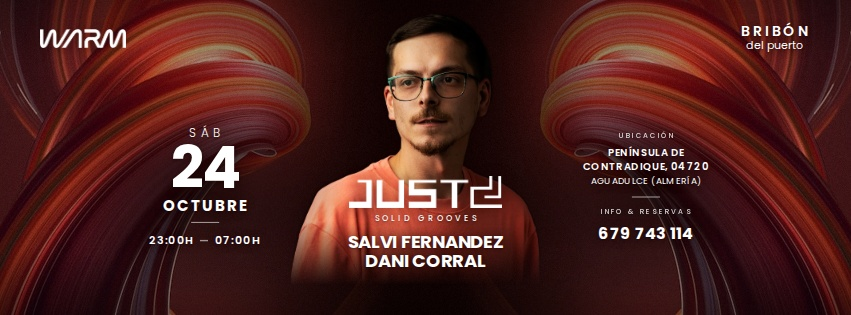
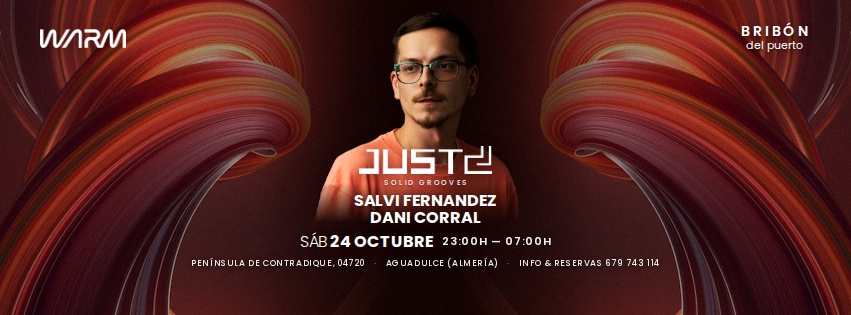
WARM 24.10 — coperte înapoi pe așezarea centrată, cu toată informația (1920×1005, 851×315)
Claude-Session: https://claude.ai/code/session_01PsYJ7xTqRMzxVLnVuQx1Lt

diff --git a/warm_24oct/cover_851_center.html b/warm_24oct/cover_851_center.html
@@ -1,0 +1,35 @@
+<!doctype html><html><head><meta charset="utf-8">
+<link href="fonts_poppins.css" rel="stylesheet">
+<style>
+*{margin:0;padding:0;box-sizing:border-box}
+body{width:851px;height:315px;overflow:hidden;background:#200606 url(bg_swirl_851.jpg) 0 0/851px 315px no-repeat;font-family:'Poppins',sans-serif;color:#fff;text-transform:uppercase}
+.photo{position:absolute;left:209px;top:-55px;width:440px;height:660px;background:url(photos/just2_cutout.png) 0 0/100% 100% no-repeat;
+ -webkit-mask-image:linear-gradient(180deg,#000 0%,#000 36%,rgba(0,0,0,0) 42%);filter:drop-shadow(0 0 18px rgba(20,0,0,.55))}
+.sh{text-shadow:0 1px 8px rgba(40,5,0,.65),0 1px 2px rgba(40,5,0,.4)}
+img.sh{filter:drop-shadow(0 1px 7px rgba(40,5,0,.5))}
+.warm{position:absolute;top:29px;left:40px;width:86px}
+.tr{position:absolute;top:24px;right:40px;text-align:center;line-height:1}
+.tr b{display:block;font-weight:600;font-size:14px;letter-spacing:.2em;padding-left:.2em}
+.tr i{display:block;font-style:normal;font-weight:400;font-size:11px;text-transform:none;margin-top:2px}
+.tr small{display:block;font-weight:500;font-size:8px;letter-spacing:.14em;margin-top:6px;opacity:.9}
+.c{position:absolute;left:0;right:0;top:146px;display:flex;flex-direction:column;align-items:center;text-align:center}
+.j2{height:28px}
+.label{font-weight:500;font-size:7px;letter-spacing:.38em;padding-left:.38em;margin:4px 0 5px}
+.n{font-weight:700;font-size:16px;line-height:1.05;letter-spacing:-.01em}
+.date{font-weight:700;font-size:16px;line-height:1;margin-top:7px;letter-spacing:-.005em}
+.date span{font-weight:300}
+.date em{font-style:normal;font-weight:600;font-size:11px;letter-spacing:.06em;opacity:.95;margin-left:9px;vertical-align:2px}
+.l2{font-weight:500;font-size:8.5px;letter-spacing:.07em;margin-top:7px;opacity:.92}
+.l2 em{font-style:normal;opacity:.55;margin:0 6px}
+</style></head><body>
+<div class="photo"></div>
+<img class="warm sh" src="logos/warm_white.png">
+<div class="tr sh"><b>BRIBÓN</b><i>del puerto</i></div>
+<div class="c sh">
+ <img class="j2 sh" src="logos/just2_white.png">
+ <div class="label">Solid Grooves</div>
+ <div class="n">Salvi Fernandez</div><div class="n">Dani Corral</div>
+ <div class="date"><span>SÁB</span> 24 OCTUBRE<em>23:00H — 07:00H</em></div>
+ <div class="l2">Península de Contradique, 04720 <em>·</em> Aguadulce (Almería) <em>·</em> Info &amp; Reservas 679 743 114</div>
+</div>
+</body></html>

diff --git a/warm_24oct/cover_center.html b/warm_24oct/cover_center.html
@@ -1,0 +1,35 @@
+<!doctype html><html><head><meta charset="utf-8">
+<link href="fonts_poppins.css" rel="stylesheet">
+<style>
+*{margin:0;padding:0;box-sizing:border-box}
+body{width:1920px;height:1005px;overflow:hidden;background:#200606 url(bg_swirl_mirror_1920.jpg) 0 0/1920px 1005px no-repeat;font-family:'Poppins',sans-serif;color:#fff;text-transform:uppercase}
+.photo{position:absolute;left:436px;top:-62px;width:1066px;height:1600px;background:url(photos/just2_cutout.png) 0 0/100% 100% no-repeat;
+ -webkit-mask-image:linear-gradient(180deg,#000 0%,#000 40%,rgba(0,0,0,0) 47%);filter:drop-shadow(0 0 40px rgba(20,0,0,.55))}
+.sh{text-shadow:0 2px 16px rgba(40,5,0,.6),0 1px 3px rgba(40,5,0,.4)}
+img.sh{filter:drop-shadow(0 2px 14px rgba(40,5,0,.5))}
+.warm{position:absolute;top:66px;left:90px;width:190px}
+.tr{position:absolute;top:56px;right:90px;text-align:center;line-height:1}
+.tr b{display:block;font-weight:600;font-size:32px;letter-spacing:.2em;padding-left:.2em}
+.tr i{display:block;font-style:normal;font-weight:400;font-size:24px;text-transform:none;margin-top:4px}
+.c{position:absolute;left:0;right:0;top:440px;display:flex;flex-direction:column;align-items:center;text-align:center}
+.j2{height:96px}
+.label{font-weight:500;font-size:16px;letter-spacing:.38em;padding-left:.38em;margin:10px 0 14px}
+.n{font-weight:700;font-size:52px;line-height:1.06;letter-spacing:-.015em}
+.date{font-weight:700;font-size:56px;letter-spacing:-.01em;line-height:1;margin-top:26px}
+.date span{font-weight:300}
+.l1{font-weight:600;font-size:22px;letter-spacing:.06em;margin-top:18px}
+.l2{font-weight:500;font-size:17px;letter-spacing:.07em;margin-top:12px;opacity:.9}
+.l1 em,.l2 em{font-style:normal;opacity:.55;margin:0 12px}
+</style></head><body>
+<div class="photo"></div>
+<img class="warm sh" src="logos/warm_white.png">
+<div class="tr sh"><b>BRIBÓN</b><i>del puerto</i></div>
+<div class="c sh">
+ <img class="j2 sh" src="logos/just2_white.png">
+ <div class="label">Solid Grooves</div>
+ <div class="n">Salvi Fernandez</div><div class="n">Dani Corral</div>
+ <div class="date"><span>SÁB</span> 24 OCTUBRE</div>
+ <div class="l1">23:00H <em>—</em> 07:00H</div>
+ <div class="l2">Península de Contradique, 04720 <em>·</em> Aguadulce (Almería) <em>·</em> Info &amp; Reservas 679 743 114</div>
+</div>
+</body></html>
